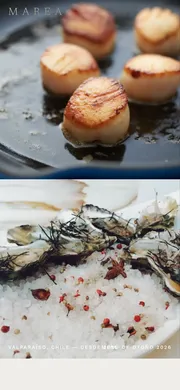
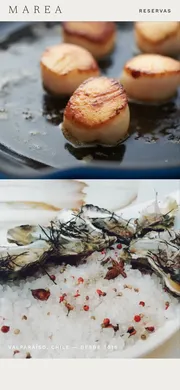
Tanda 3: corrige viewport ensanchado en móvil (27, 28), cabecera móvil de 28; shoot3 detecta el caso

Changed region(s): [[0.0, 0.0, 1.0, 0.0615], [0.8889, 0.8615, 0.9444, 0.8923]]

diff --git a/index.html b/index.html
@@ -81,14 +81,14 @@ footer{border-top:1px solid #24242a;padding:24px clamp(20px,4vw,56px);font-size:
   <div class="meta"><span class="m n">27 · inspirada en The Drake Hotel (Awwwards SOTD)</span><h2 class="d">Hotel Pasaje</h2><p class="niche">Hotel boutique · CDMX</p>
   <p class="niche"><b>Ideal para:</b> hoteles boutique, hostales, casas rurales, apartamentos turísticos, bares de hotel</p>
   <p class="tech m">Slideshow con miniaturas, barra de reserva sticky, pestañas de habitaciones y agenda con ticker</p>
-  <dl class="m"><div><dt>JS gzip</dt><dd>1.2 KB</dd></div><div><dt>Página gzip</dt><dd>486.1 KB</dd></div><div><dt>Lighthouse móvil</dt><dd>98</dd></div></dl>
+  <dl class="m"><div><dt>JS gzip</dt><dd>1.2 KB</dd></div><div><dt>Página gzip</dt><dd>486.1 KB</dd></div><div><dt>Lighthouse móvil</dt><dd>94</dd></div></dl>
   <div class="ac"><a class="pill f m" href="27-hotel-boutique/">Abrir demo</a><a class="pill m" href="https://thedrake.ca/" rel="noopener">Referencia</a><a class="pill m" href="https://github.com/0xDapa/escalatam-web-lab/tree/main/27-hotel-boutique">Código y notas</a></div></div>
 </article><article class="v" style="--a:#d9d4c7;--af:#111">
   <a class="th" href="28-alta-cocina/"><img src="thumbs/28-alta-cocina.webp" width="800" height="500" loading="lazy" alt="Vista de escritorio de Marea"><img class="ph" src="thumbs/28-alta-cocina-m.webp" width="180" height="390" loading="lazy" alt="Vista móvil"></a>
   <div class="meta"><span class="m n">28 · inspirada en Central Restaurante (Lima)</span><h2 class="d">Marea</h2><p class="niche">Restaurante de autor · Valparaíso</p>
   <p class="niche"><b>Ideal para:</b> restaurantes de autor, menús degustación, bodegas, chefs privados</p>
   <p class="tech m">Descenso por profundidades: el fondo interpola crema → mar → abismo con el scroll + medidor sticky</p>
-  <dl class="m"><div><dt>JS gzip</dt><dd>1.7 KB</dd></div><div><dt>Página gzip</dt><dd>636.9 KB</dd></div><div><dt>Lighthouse móvil</dt><dd>95</dd></div></dl>
+  <dl class="m"><div><dt>JS gzip</dt><dd>1.7 KB</dd></div><div><dt>Página gzip</dt><dd>636.9 KB</dd></div><div><dt>Lighthouse móvil</dt><dd>100</dd></div></dl>
   <div class="ac"><a class="pill f m" href="28-alta-cocina/">Abrir demo</a><a class="pill m" href="https://centralrestaurante.com.pe/" rel="noopener">Referencia</a><a class="pill m" href="https://github.com/0xDapa/escalatam-web-lab/tree/main/28-alta-cocina">Código y notas</a></div></div>
 </article><article class="v" style="--a:#606d01;--af:#fff">
   <a class="th" href="29-cafe-brunch/"><img src="thumbs/29-cafe-brunch.webp" width="800" height="500" loading="lazy" alt="Vista de escritorio de Brote"><img class="ph" src="thumbs/29-cafe-brunch-m.webp" width="180" height="390" loading="lazy" alt="Vista móvil"></a>

diff --git a/28-alta-cocina/style.css b/28-alta-cocina/style.css
@@ -75,7 +75,7 @@ fieldset{border:0;display:flex;flex-direction:column;gap:14px;align-items:center
 .logo.big{font-size:clamp(50px,12vw,190px);letter-spacing:.3em;text-align:center;margin-bottom:50px;padding-left:.3em}
 .f-grid{display:grid;grid-template-columns:repeat(4,1fr);gap:20px;font-size:13px}
 @media (max-width:900px){
- .top nav{gap:16px}
+ .cap.r{display:none}.top nav{gap:16px}.top{mix-blend-mode:normal;color:inherit;background:var(--bgc,#f2f2f2);padding:12px var(--g);box-shadow:0 1px 0 #8884}.top nav a:not(:last-child){display:none}
  .hero{grid-template-columns:1fr;grid-template-rows:1fr 1fr;height:92svh}
  .descent{grid-template-columns:1fr;padding-top:0}
  .gauge{position:sticky;top:56px;z-index:5;flex-direction:row;align-items:center;gap:10px;padding:10px 0;background:var(--bgc);margin:0 calc(var(--g) * -1);padding-inline:var(--g)}
@@ -84,3 +84,4 @@ fieldset{border:0;display:flex;flex-direction:column;gap:14px;align-items:center
  .exp-grid,.story,.f-grid{grid-template-columns:1fr}.exp-grid>div+div{border-left:0;border-top:1px solid color-mix(in srgb,currentColor 25%,transparent);padding-left:0}
 }
 @media (prefers-reduced-motion:reduce){*,*::before,*::after{animation:none!important;transition:none!important}.zone figure{opacity:1;transform:none}}
+fieldset{min-width:0}

diff --git a/27-hotel-boutique/style.css b/27-hotel-boutique/style.css
@@ -116,6 +116,7 @@ a{color:inherit;text-decoration:none}img{display:block;max-width:100%;height:aut
  .r-body{grid-template-columns:1fr}.r-body figure{border-right:0;border-bottom:1.5px solid #fff}
  .ag-list li{grid-template-columns:1fr auto;gap:4px 12px}.ag-list time{grid-column:1/-1}.ag-list span{grid-column:1}
  .eat-grid,.rv-grid{grid-template-columns:1fr}.rv-grid blockquote{border-right:0;border-bottom:1.5px solid var(--line)}
- .co-grid{grid-template-columns:1fr}.co-grid>*{border-right:0;border-bottom:1.5px solid var(--line);padding-left:0!important}
+ .co-grid{grid-template-columns:minmax(0,1fr)}.co-grid>*{border-right:0;border-bottom:1.5px solid var(--line);padding-left:0!important}
 }
 @media (prefers-reduced-motion:reduce){*,*::before,*::after{animation:none!important;transition:none!important}}
+.slides{overflow:hidden}

diff --git a/tools/shoot3.py b/tools/shoot3.py
@@ -17,7 +17,7 @@ async def shoot(b,vid):
         while y<H:
             y+=500; await pg.evaluate(f'window.scrollTo(0,{y})'); await pg.wait_for_timeout(120)
         await pg.wait_for_timeout(900)
-        ov=await pg.evaluate('document.documentElement.scrollWidth-innerWidth')
+        ov=await pg.evaluate(f'Math.max(document.documentElement.scrollWidth,innerWidth)-{vp["width"]}')  # con is_mobile el viewport de layout se ensancha: comparar con el ancho real
         wide=await pg.evaluate('[...document.querySelectorAll("body *")].filter(e=>{const r=e.getBoundingClientRect();return r.right>innerWidth+1&&getComputedStyle(e).position!=="fixed"}).slice(0,6).map(e=>e.tagName+"."+e.className.toString().slice(0,30)+" r="+Math.round(e.getBoundingClientRect().right))')
         await pg.evaluate('window.scrollTo(0,0)'); await pg.wait_for_timeout(600)
         if name=='desk': await pg.screenshot(path=f'{OUT}/{vid}-{name}-full.png',full_page=True)

diff --git a/README.md b/README.md
@@ -83,8 +83,8 @@ vendible, con código propio, marca ficticia, textos en español, fotos CC0 loca
 | 24 | [Alba Clínica Dental](https://0xdapa.github.io/escalatam-web-lab/24-dental-premium/) | Odontología estética · Madrid | clínicas dentales, estética, cirugía plástica, dermatología, clínicas premium | [Aventura Dental Arts (Awwwards SOTD)](https://aventuradentalarts.com/) | Revelado con clip-path + texto palabra a palabra ligado al scroll + slider antes/después | 1.9 KB | 232.9 KB | 100 / 96 / 100 / 100 |
 | 25 | [Ferrer Ruiz Abogados](https://0xdapa.github.io/escalatam-web-lab/25-abogados/) | Despacho de abogados · Bogotá | abogados, notarías, asesorías fiscales, consultoras, gestorías | [PXR Legal (Awwwards SOTD)](https://pxr.law/) | Píldora rotativa en el titular, menú de esquina a pantalla completa, tarjetas apiladas sticky (sin fotos) | 0.9 KB | 31.8 KB | 100 / 96 / 100 / 100 |
 | 26 | [Almendro Residences](https://0xdapa.github.io/escalatam-web-lab/26-inmobiliaria-lujo/) | Promoción residencial de lujo · Altea | inmobiliarias, promotoras, residencias, villas vacacionales, arquitectos | [ERA Residence (Awwwards SOTD)](https://www.era-residence.com/) | Arco que crece con el scroll, anillo de texto circular, modo día/noche y tabla filtrable con View Transitions | 1.9 KB | 575.4 KB | 98 / 97 / 100 / 100 |
-| 27 | [Hotel Pasaje](https://0xdapa.github.io/escalatam-web-lab/27-hotel-boutique/) | Hotel boutique · CDMX | hoteles boutique, hostales, casas rurales, apartamentos turísticos, bares de hotel | [The Drake Hotel (Awwwards SOTD)](https://thedrake.ca/) | Slideshow con miniaturas, barra de reserva sticky, pestañas de habitaciones y agenda con ticker | 1.2 KB | 486.1 KB | 98 / 100 / 100 / 100 |
-| 28 | [Marea](https://0xdapa.github.io/escalatam-web-lab/28-alta-cocina/) | Restaurante de autor · Valparaíso | restaurantes de autor, menús degustación, bodegas, chefs privados | [Central Restaurante (Lima)](https://centralrestaurante.com.pe/) | Descenso por profundidades: el fondo interpola crema → mar → abismo con el scroll + medidor sticky | 1.7 KB | 636.9 KB | 95 / 95 / 100 / 100 |
+| 27 | [Hotel Pasaje](https://0xdapa.github.io/escalatam-web-lab/27-hotel-boutique/) | Hotel boutique · CDMX | hoteles boutique, hostales, casas rurales, apartamentos turísticos, bares de hotel | [The Drake Hotel (Awwwards SOTD)](https://thedrake.ca/) | Slideshow con miniaturas, barra de reserva sticky, pestañas de habitaciones y agenda con ticker | 1.2 KB | 486.1 KB | 94 / 100 / 100 / 100 |
+| 28 | [Marea](https://0xdapa.github.io/escalatam-web-lab/28-alta-cocina/) | Restaurante de autor · Valparaíso | restaurantes de autor, menús degustación, bodegas, chefs privados | [Central Restaurante (Lima)](https://centralrestaurante.com.pe/) | Descenso por profundidades: el fondo interpola crema → mar → abismo con el scroll + medidor sticky | 1.7 KB | 636.9 KB | 100 / 95 / 100 / 100 |
 | 29 | [Brote](https://0xdapa.github.io/escalatam-web-lab/29-cafe-brunch/) | Café de brunch · Valencia | cafeterías, panaderías, heladerías, brunch, tiendas de barrio | [Amici (Awwwards SOTD)](https://restaurant-amici.com/) | Polaroids arrastrables, pizarra del día, carrusel automático y tarjeta de sellos interactiva | 1.9 KB | 696.7 KB | 100 / 97 / 100 / 100 |
 | 30 | [Lacada Nail Studio](https://0xdapa.github.io/escalatam-web-lab/30-nail-studio/) | Estudio de uñas · Lima | uñas, peluquerías, barberías, pestañas y cejas, maquillaje, spa | [Les Nanas Studio Floral (Awwwards HM)](https://lesnanas-studiofloral.com/) | Probador de uñas en SVG: color, acabado, forma y precio en vivo que viaja a la reserva | 1.8 KB | 187.7 KB | 100 / 100 / 100 / 100 |
 | 31 | [Kinesia](https://0xdapa.github.io/escalatam-web-lab/31-fisioterapia/) | Kinesiología y fisioterapia · Santiago | fisioterapeutas, quiroprácticos, osteópatas, clínicas de salud, centros médicos | [Parsley Health](https://www.parsleyhealth.com/) | Mapa corporal SVG clicable + nivel de dolor que da consejo + próxima hora libre | 1.7 KB | 439.9 KB | 100 / 97 / 100 / 100 |

diff --git a/27-hotel-boutique/README.md b/27-hotel-boutique/README.md
@@ -27,8 +27,8 @@ Hero · presentación/sobre · servicios con precios de ejemplo · interacción 
 |---|---|
 | JS (sin comprimir / gzip -9) | 2.3 KB / 1.2 KB |
 | Página completa gzip (HTML+CSS+JS+fuentes+imágenes) | 486.1 KB |
-| Lighthouse móvil (rendimiento / accesibilidad / buenas prácticas / SEO) | 98 / 100 / 100 / 100 |
-| FCP / LCP / TBT / CLS (Lighthouse móvil) | 0.8 s / 2.3 s / 50 ms / 0 |
+| Lighthouse móvil (rendimiento / accesibilidad / buenas prácticas / SEO) | 94 / 100 / 100 / 100 |
+| FCP / LCP / TBT / CLS (Lighthouse móvil) | 1.2 s / 2.3 s / 230 ms / 0 |
 
 Comprobado en Chrome headless: sin errores de consola y sin scroll horizontal a 390 px. Respeta `prefers-reduced-motion`.
 

diff --git a/28-alta-cocina/README.md b/28-alta-cocina/README.md
@@ -27,8 +27,8 @@ Hero · presentación/sobre · servicios con precios de ejemplo · interacción 
 |---|---|
 | JS (sin comprimir / gzip -9) | 3.4 KB / 1.7 KB |
 | Página completa gzip (HTML+CSS+JS+fuentes+imágenes) | 636.9 KB |
-| Lighthouse móvil (rendimiento / accesibilidad / buenas prácticas / SEO) | 95 / 95 / 100 / 100 |
-| FCP / LCP / TBT / CLS (Lighthouse móvil) | 1.1 s / 2.9 s / 0 ms / 0 |
+| Lighthouse móvil (rendimiento / accesibilidad / buenas prácticas / SEO) | 100 / 95 / 100 / 100 |
+| FCP / LCP / TBT / CLS (Lighthouse móvil) | 1.0 s / 1.0 s / 0 ms / 0 |
 
 Comprobado en Chrome headless: sin errores de consola y sin scroll horizontal a 390 px. Respeta `prefers-reduced-motion`.
 
